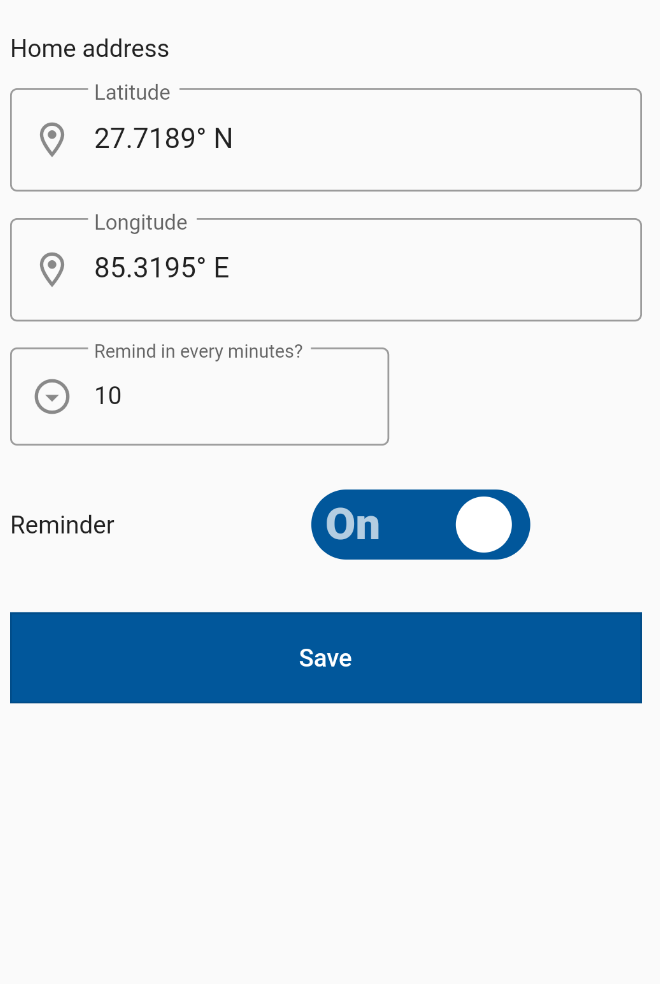
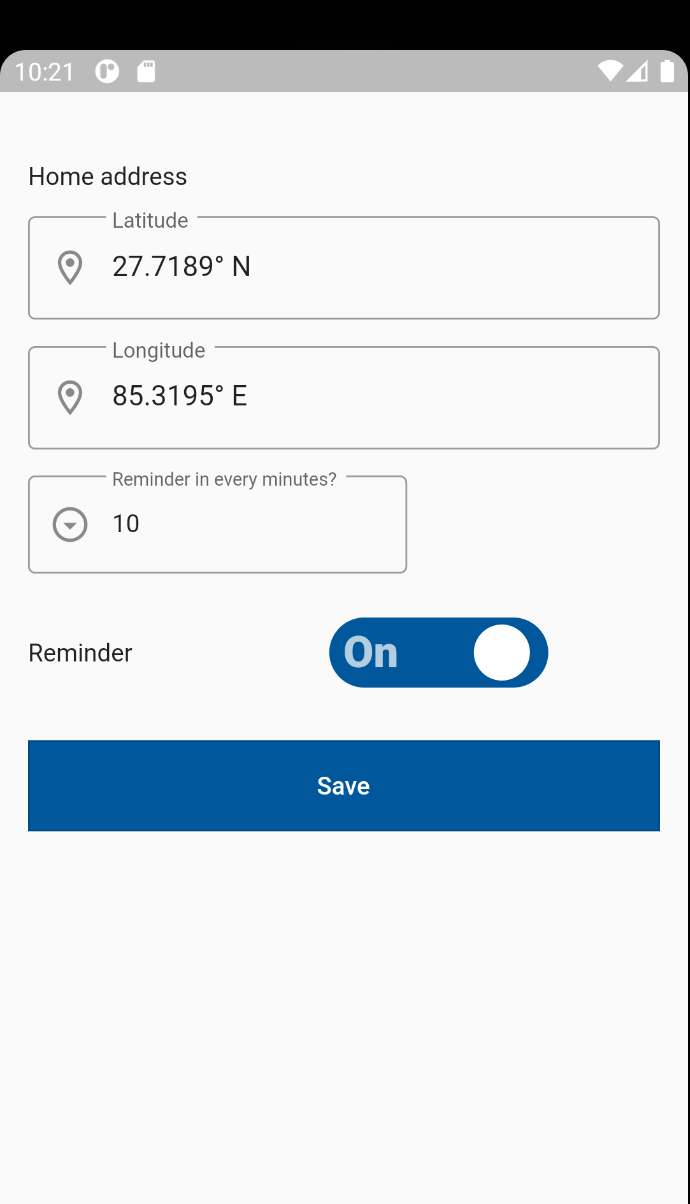
Fixed timer issue

diff --git a/lib/services/reminder.dart b/lib/services/reminder.dart
@@ -15,15 +15,16 @@ class ReminderService {
     await keyVal.write("long", long);
     await keyVal.write("reminderInterval", reminderInterval.toString());
     await keyVal.write("isReminderOn", isReminderOn.toString());
-    updateReminder(lat, long, (reminderInterval*60), isReminderOn);
+
+    updateReminder(lat, long, (5), isReminderOn);
   }
 
   void updateReminder(String lat, String long, int reminderInterval,bool isReminderOn) {
     if(isReminderOn) {
-      t.cancel();
-    } else {
       Duration duration = Duration(seconds: reminderInterval);
       t = new Timer.periodic(duration, onTimerInvoke);
+    } else {
+      t.cancel();
     }
   }
 
@@ -32,7 +33,7 @@ class ReminderService {
     // Set notification sound
     //AudioPlayer audioPlayer = AudioPlayer(mode: PlayerMode.LOW_LATENCY);
     //audioPlayer.play("https://github.com/sumitppawar/covidninja/notifcation.mp3");
-    Vibration.vibrate(duration: 1000);
+    Vibration.vibrate(duration: 2000, amplitude: 255);
   }
 
   bool isOutSideOfHouse() {

diff --git a/lib/screens/home.dart b/lib/screens/home.dart
@@ -207,7 +207,7 @@ class HomeScreenState extends State<HomeScreen> {
         autofocus: true,
         style: DefaultTextStyle.of(context).style.copyWith(),
         decoration: InputDecoration(
-          labelText: 'Remind in every minutes?',
+          labelText: 'Reminder in every minutes?',
           prefixIcon: Icon(Icons.arrow_drop_down_circle_outlined),
           border: OutlineInputBorder(
             borderSide: BorderSide(color: Colors.lightBlue[900]),

diff --git a/README.md b/README.md
@@ -17,5 +17,10 @@ How to build apk ?
 flutter build apk --no-shrink
 ```
 
-
-
+What it supports so far?
+- Vibrates on given time interval
+- Only when 100 meter away from home address
+  
+What needs to add ?
+- Local notification 
+- Better location accuracy
